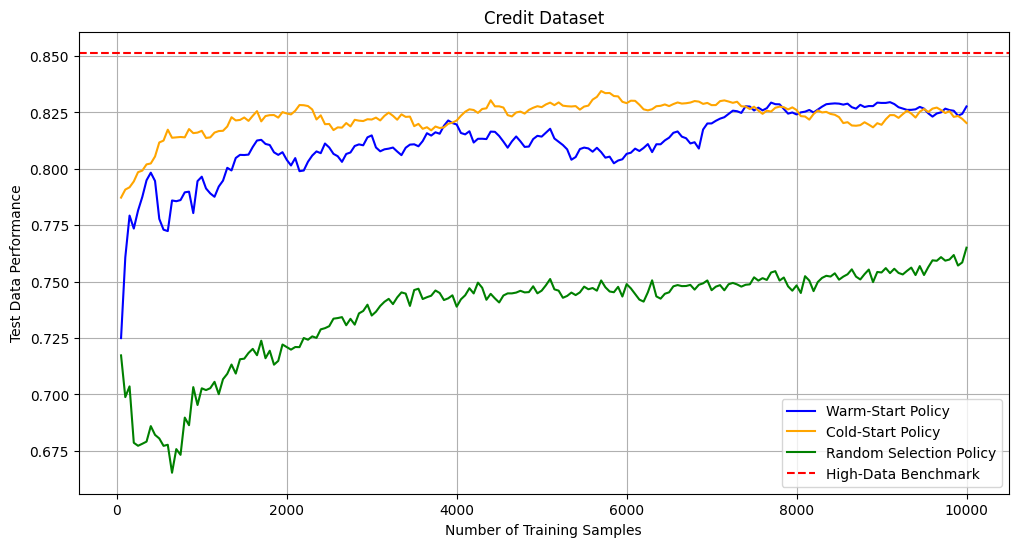
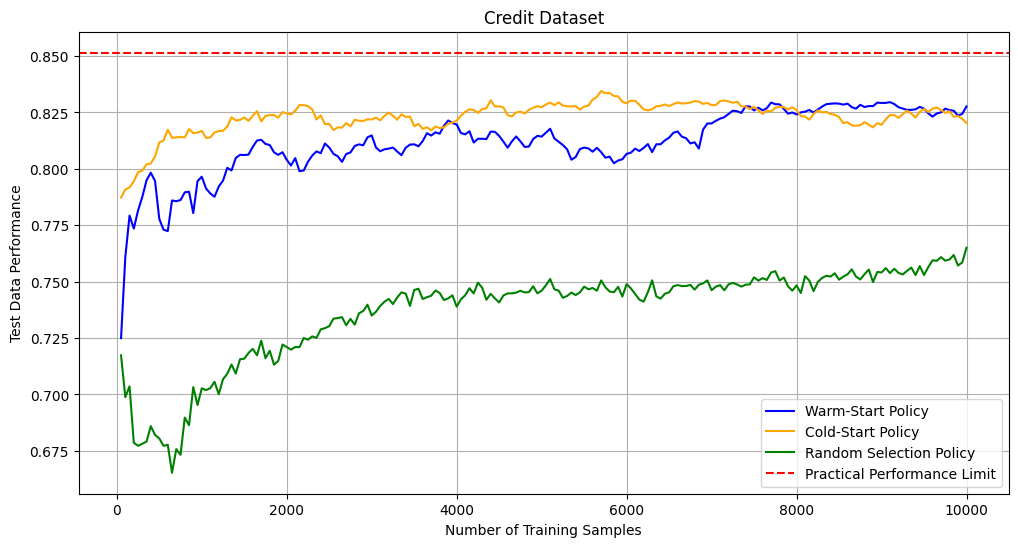
Minor change to plots

Changed region(s): [[0.7613, 0.7459, 0.9745, 0.9013]]

diff --git a/plot_generator.py b/plot_generator.py
@@ -22,7 +22,7 @@ while True:
     plt.plot(range(step, num_samples+1, step), average_f1_scores_UB, label='Warm-Start Policy', color='blue')
     plt.plot(range(step, num_samples+1, step), average_f1_scores_UP, label='Cold-Start Policy', color='orange')
     plt.plot(range(step, num_samples+1, step), average_f1_scores_RB, label='Random Selection Policy', color='green')
-    plt.axhline(y = line, color = 'r', linestyle = 'dashed', label='High-Data Benchmark')
+    plt.axhline(y = line, color = 'r', linestyle = 'dashed', label='Practical Performance Limit')
     plt.xlabel('Number of Training Samples')
     plt.ylabel('Test Data Performance')
     plt.title(F'{path.capitalize()} Dataset')
@@ -37,7 +37,7 @@ while True:
     plt.plot(range(step, num_samples+1, step), average_f1_scores_UB2, label='Warm-Start Policy', color='blue')
     plt.plot(range(step, num_samples+1, step), average_f1_scores_UP2, label='Cold-Start Policy', color='orange')
     plt.plot(range(step, num_samples+1, step), average_f1_scores_RB2, label='Random Selection Policy', color='green')
-    plt.axhline(y = line, color = 'r', linestyle = 'dashed', label='High-Data Benchmark')
+    plt.axhline(y = line, color = 'r', linestyle = 'dashed', label='Practical Performance Limit')
     plt.xlabel('Number of Training Samples')
     plt.ylabel('Test Data Performance')
     plt.title(F'{path.capitalize()} Dataset')
